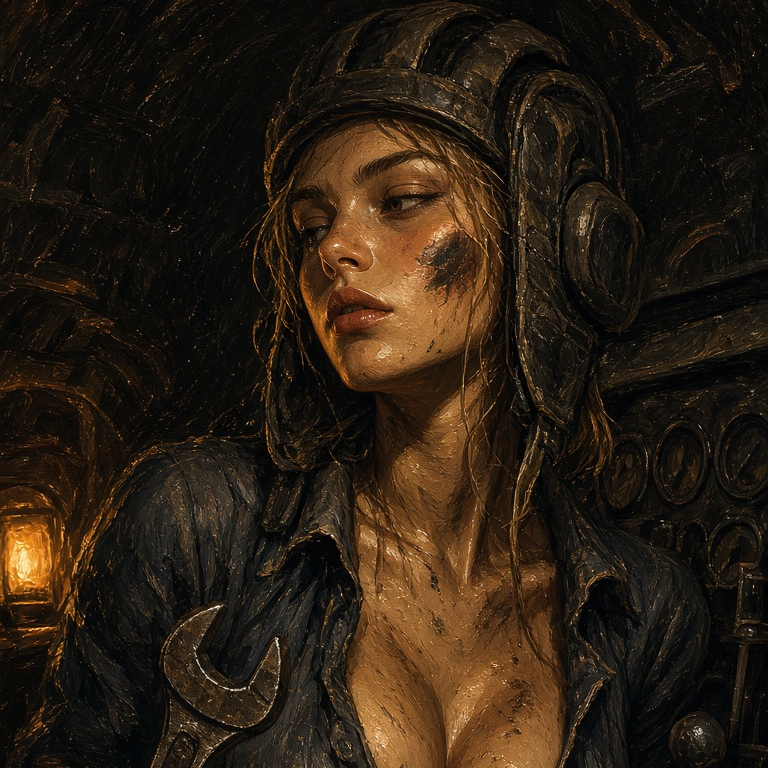
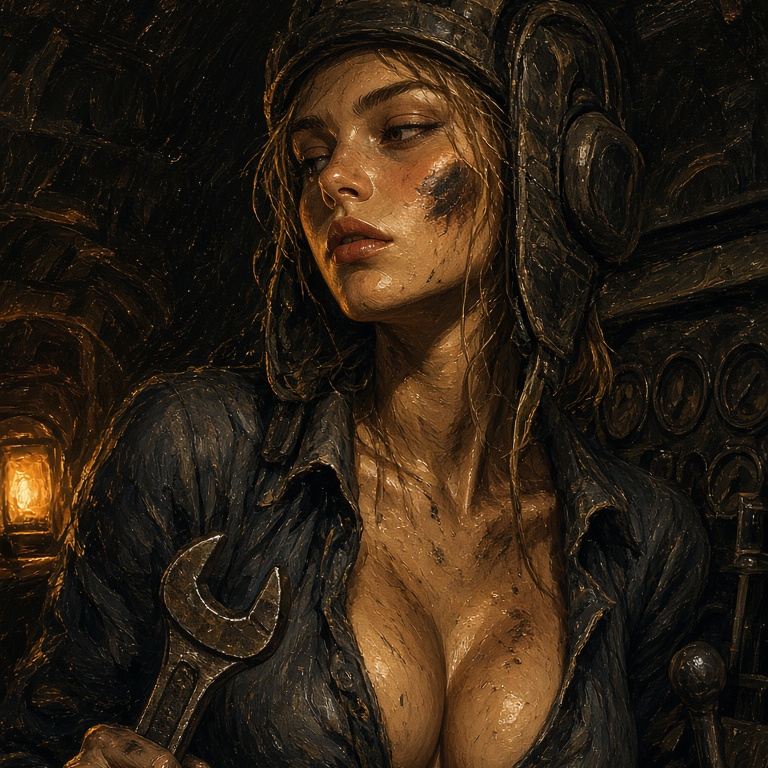
Figures of their own for the crew in the hangar; Lena's portrait cut lower
Whoever sits in a seat stands in front of the tank as a figure of her or his own when there is one (Props/crew_<id>, the women first), else as the seat's figure; taking someone on or assigning them in the depot changes the figures at once. Lena Sokolova's portrait is cut from lower down the picture: the crew tab keeps her face, the roster shows more of her.

diff --git a/unity/Assets/_Game/Scripts/IronNight/Garage.cs b/unity/Assets/_Game/Scripts/IronNight/Garage.cs
@@ -143,6 +143,9 @@ namespace IronNight
         readonly System.Collections.Generic.List<GameObject> crewFigures = new System.Collections.Generic.List<GameObject>(); string crewNation;
         /// <summary>The leader's crew standing on the hangar floor in front of the turntable, turned to the camera, when there
         /// are figures of them (Props/crew_us_gunner and the like, exported facing +Z).</summary>
+        /// <summary>The figures again after a change of crew: a woman taking a seat stands there herself.</summary>
+        public void RefreshCrew() { var n = crewNation; crewNation = null; if (n != null) ShowCrew(n); }
+
         public void ShowCrew(string nation)
         {
             if (crewNation == nation) return; crewNation = nation;
@@ -158,7 +161,8 @@ namespace IronNight
             var eye = titleCam != null ? titleCam.transform.localPosition : new Vector3(-9.6f, 3.4f, -15.2f); var idle = new CrewIdle[4];
             for (int i = 0; i < 4; i++)
             {
-                string id = "crew_" + nation + "_" + Crew.Roles[i]; var pf = Resources.Load<GameObject>("Props/" + id); if (pf == null) continue;
+                var man = Crew.Chosen(nation, Crew.Roles[i]); string id = "crew_" + man.id; var pf = Resources.Load<GameObject>("Props/" + id);   // the one in the seat, when there is a figure of her or him
+                if (pf == null) { id = "crew_" + nation + "_" + Crew.Roles[i]; pf = Resources.Load<GameObject>("Props/" + id); } if (pf == null) continue;
                 var go = Instantiate(pf, transform); go.name = id; go.transform.localPosition = at[i];
                 var look = eye - at[i]; look.y = 0f; go.transform.localRotation = Quaternion.LookRotation(look.normalized) * Quaternion.Euler(0f, turn[i], 0f);   // to the camera, a little toward the tank
                 var mat = new Material(Resources.Load<Material>("VehicleLit")); mat.SetTexture("_BaseMap", Resources.Load<Texture2D>("Props/" + id + "_tex")); mat.SetFloat("_Cull", 0f);

diff --git a/unity/Assets/_Game/Scripts/IronNight/Hud.cs b/unity/Assets/_Game/Scripts/IronNight/Hud.cs
@@ -637,7 +637,7 @@ namespace IronNight
                 var nx = MakeText(row.transform, "Next", new Vector2(0f, 1f), new Vector2(262, -146), TextAnchor.UpperLeft, 24, lvl < Crew.MaxLevel ? ink : dim); nx.text = lvl < Crew.MaxLevel ? "Level " + (lvl + 1) + ": " + Crew.EffectOf(m, lvl + 1) : "Fully trained"; nx.rectTransform.sizeDelta = new Vector2(660, 34);
                 // the seat: assign, or hire first
                 bool canSeat = !seated && (owned || Depot.Points >= m.cost);
-                var sb = MakeButton(row.transform, seated ? "In the seat" : owned ? "Assign" : "Hire · " + m.cost.ToString("N0", En), new Vector2(1f, 0f), new Vector2(-170, 48), new Vector2(300, 72), 28, () => { if (Crew.Pick(man)) { Sfx.Pickup(); RefreshDepot(); } });
+                var sb = MakeButton(row.transform, seated ? "In the seat" : owned ? "Assign" : "Hire · " + m.cost.ToString("N0", En), new Vector2(1f, 0f), new Vector2(-170, 48), new Vector2(300, 72), 28, () => { if (Crew.Pick(man)) { Sfx.Pickup(); RefreshDepot(); if (garage != null) garage.RefreshCrew(); } });
                 sb.GetComponent<Image>().color = seated ? new Color(0.95f, 0.66f, 0.23f, 0.95f) : canSeat ? new Color(0.2f, 0.22f, 0.24f, 0.95f) : new Color(0.12f, 0.12f, 0.13f, 0.9f);
                 sb.transform.Find("Label").GetComponent<Text>().color = seated ? new Color(0.1f, 0.08f, 0.05f) : canSeat ? ink : new Color(0.5f, 0.48f, 0.45f); sb.GetComponent<Button>().interactable = canSeat;
                 // training: only for a man on the books
